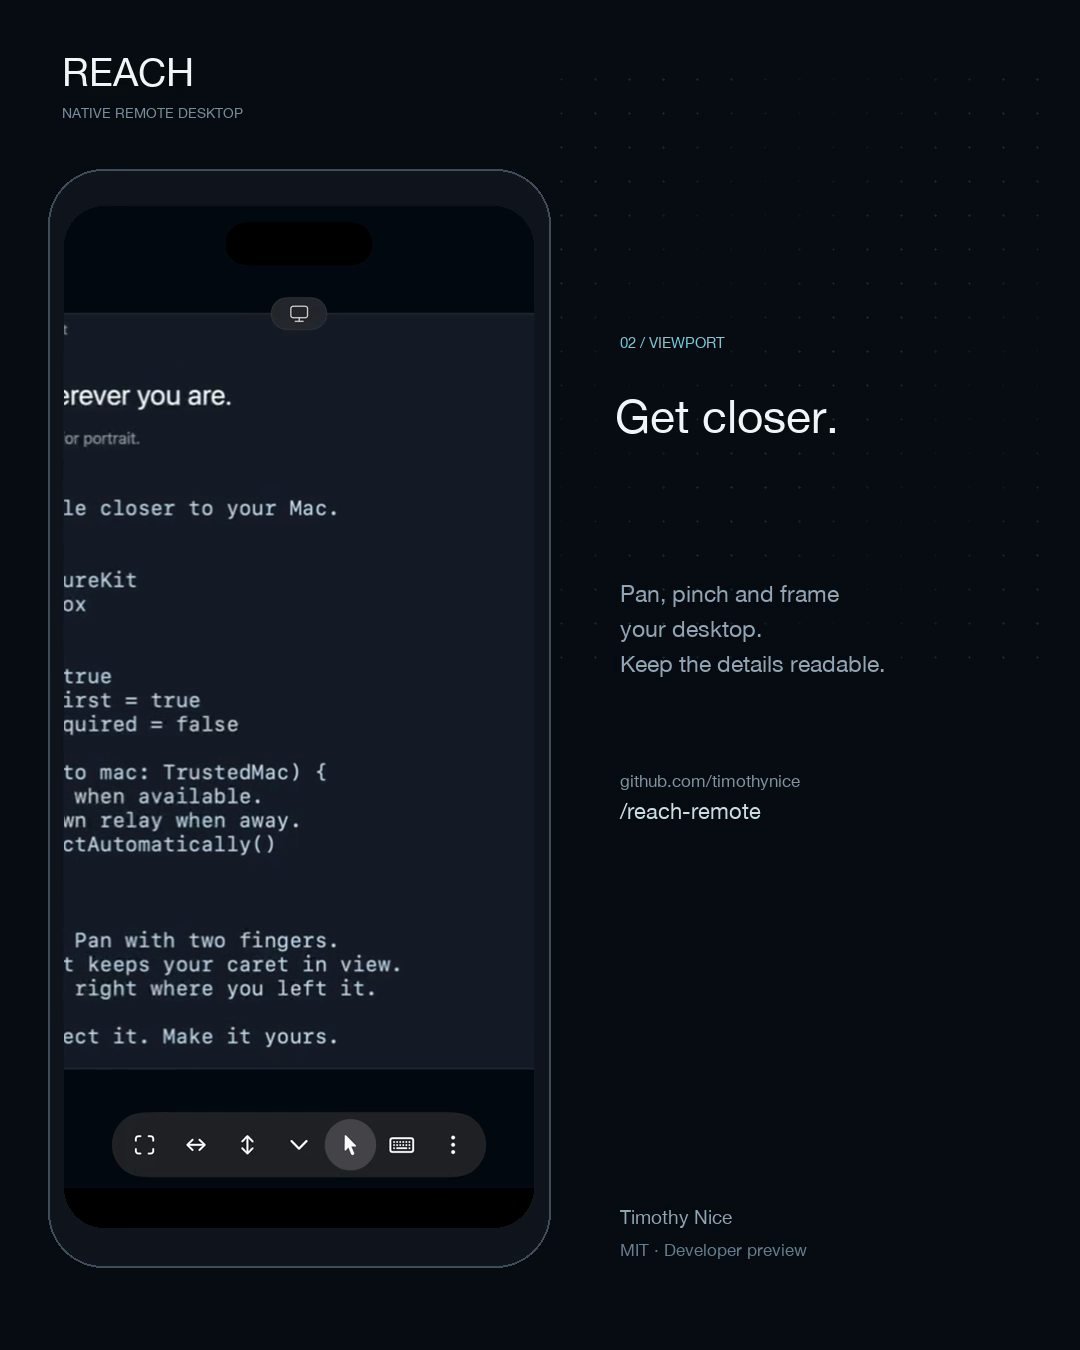
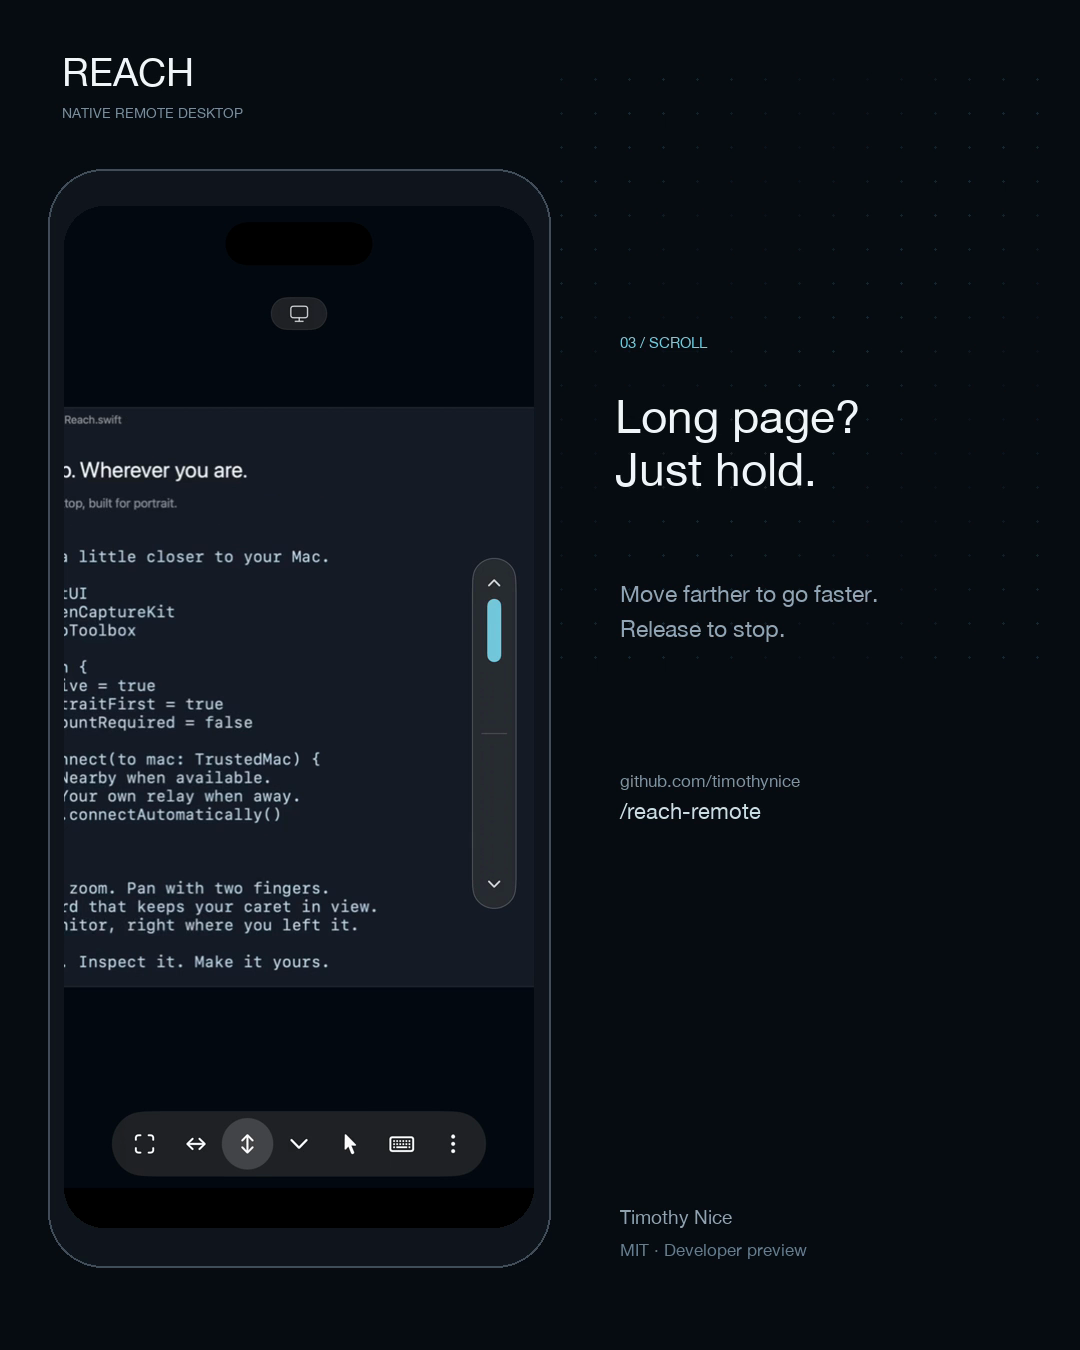
Highlight scrolling in the demo and add a looping README preview

diff --git a/Docs/Media/README.md b/Docs/Media/README.md
@@ -2,6 +2,8 @@
 
 The 30-second release video uses real Reach client footage captured in iOS Simulator, connected to an isolated development Mac host over Reach's authenticated encrypted local transport. A native AppKit sample workspace provides non-private desktop content on the Mac displays. Desktop frames are streamed through the normal capture/codec path; the phone UI is not a rendered mockup.
 
-The recording host uses a separate test identity namespace, a demo device name and no private relay configuration. No installed personal Mac/iPhone app or trusted device was replaced. Simulator signing was enabled for Keychain access. The UI capture check exercised framing presets, pinch zoom, monitor browsing and keyboard text entry. It is not a physical-device, cellular, latency or battery benchmark.
+The recording host uses a separate test identity namespace, a demo device name and no private relay configuration. No installed personal Mac/iPhone app or trusted device was replaced. Simulator signing was enabled for Keychain access. The UI capture check exercised framing presets, pinch zoom, monitor browsing, the actual hold-to-scroll rail and keyboard text entry. It is not a physical-device, cellular, latency or battery benchmark.
 
 Footage is edited for pacing, with a short closing hold. Narration was generated locally in Voicebox using the approved Kokoro Heart preset. There is no music. The supplied subtitle timings are approximate and should be reviewed in the publishing platform's preview.
+
+The README uses a silent looping GIF preview linked to the full narrated MP4 release asset. The MP4 is 1080×1350 (4:5), H.264/AAC at 30 fps, suitable for native LinkedIn feed upload. Revised narration and captions focus on the interaction, including hold-to-scroll, variable speed and release-to-stop.

diff --git a/README.md b/README.md
@@ -10,7 +10,7 @@ Reach runs locally without an account or server. For access across networks, dep
 
 [Watch the 30-second demo](https://github.com/timothynice/reach-remote/releases/download/v0.1.0/Reach-demo-30s.mp4)
 
-<img src="Docs/Media/Reach-demo-poster.png" alt="Reach controlling a safe Mac workspace in a portrait iPhone viewport" width="540">
+<a href="https://github.com/timothynice/reach-remote/releases/download/v0.1.0/Reach-demo-30s.mp4"><img src="Docs/Media/Reach-demo-preview.gif" alt="Reach in action: portrait zoom, hold-to-scroll rail, monitor switching and keyboard. Select to watch the full narrated 30-second video." width="540"></a>
 
 ## What works
 
